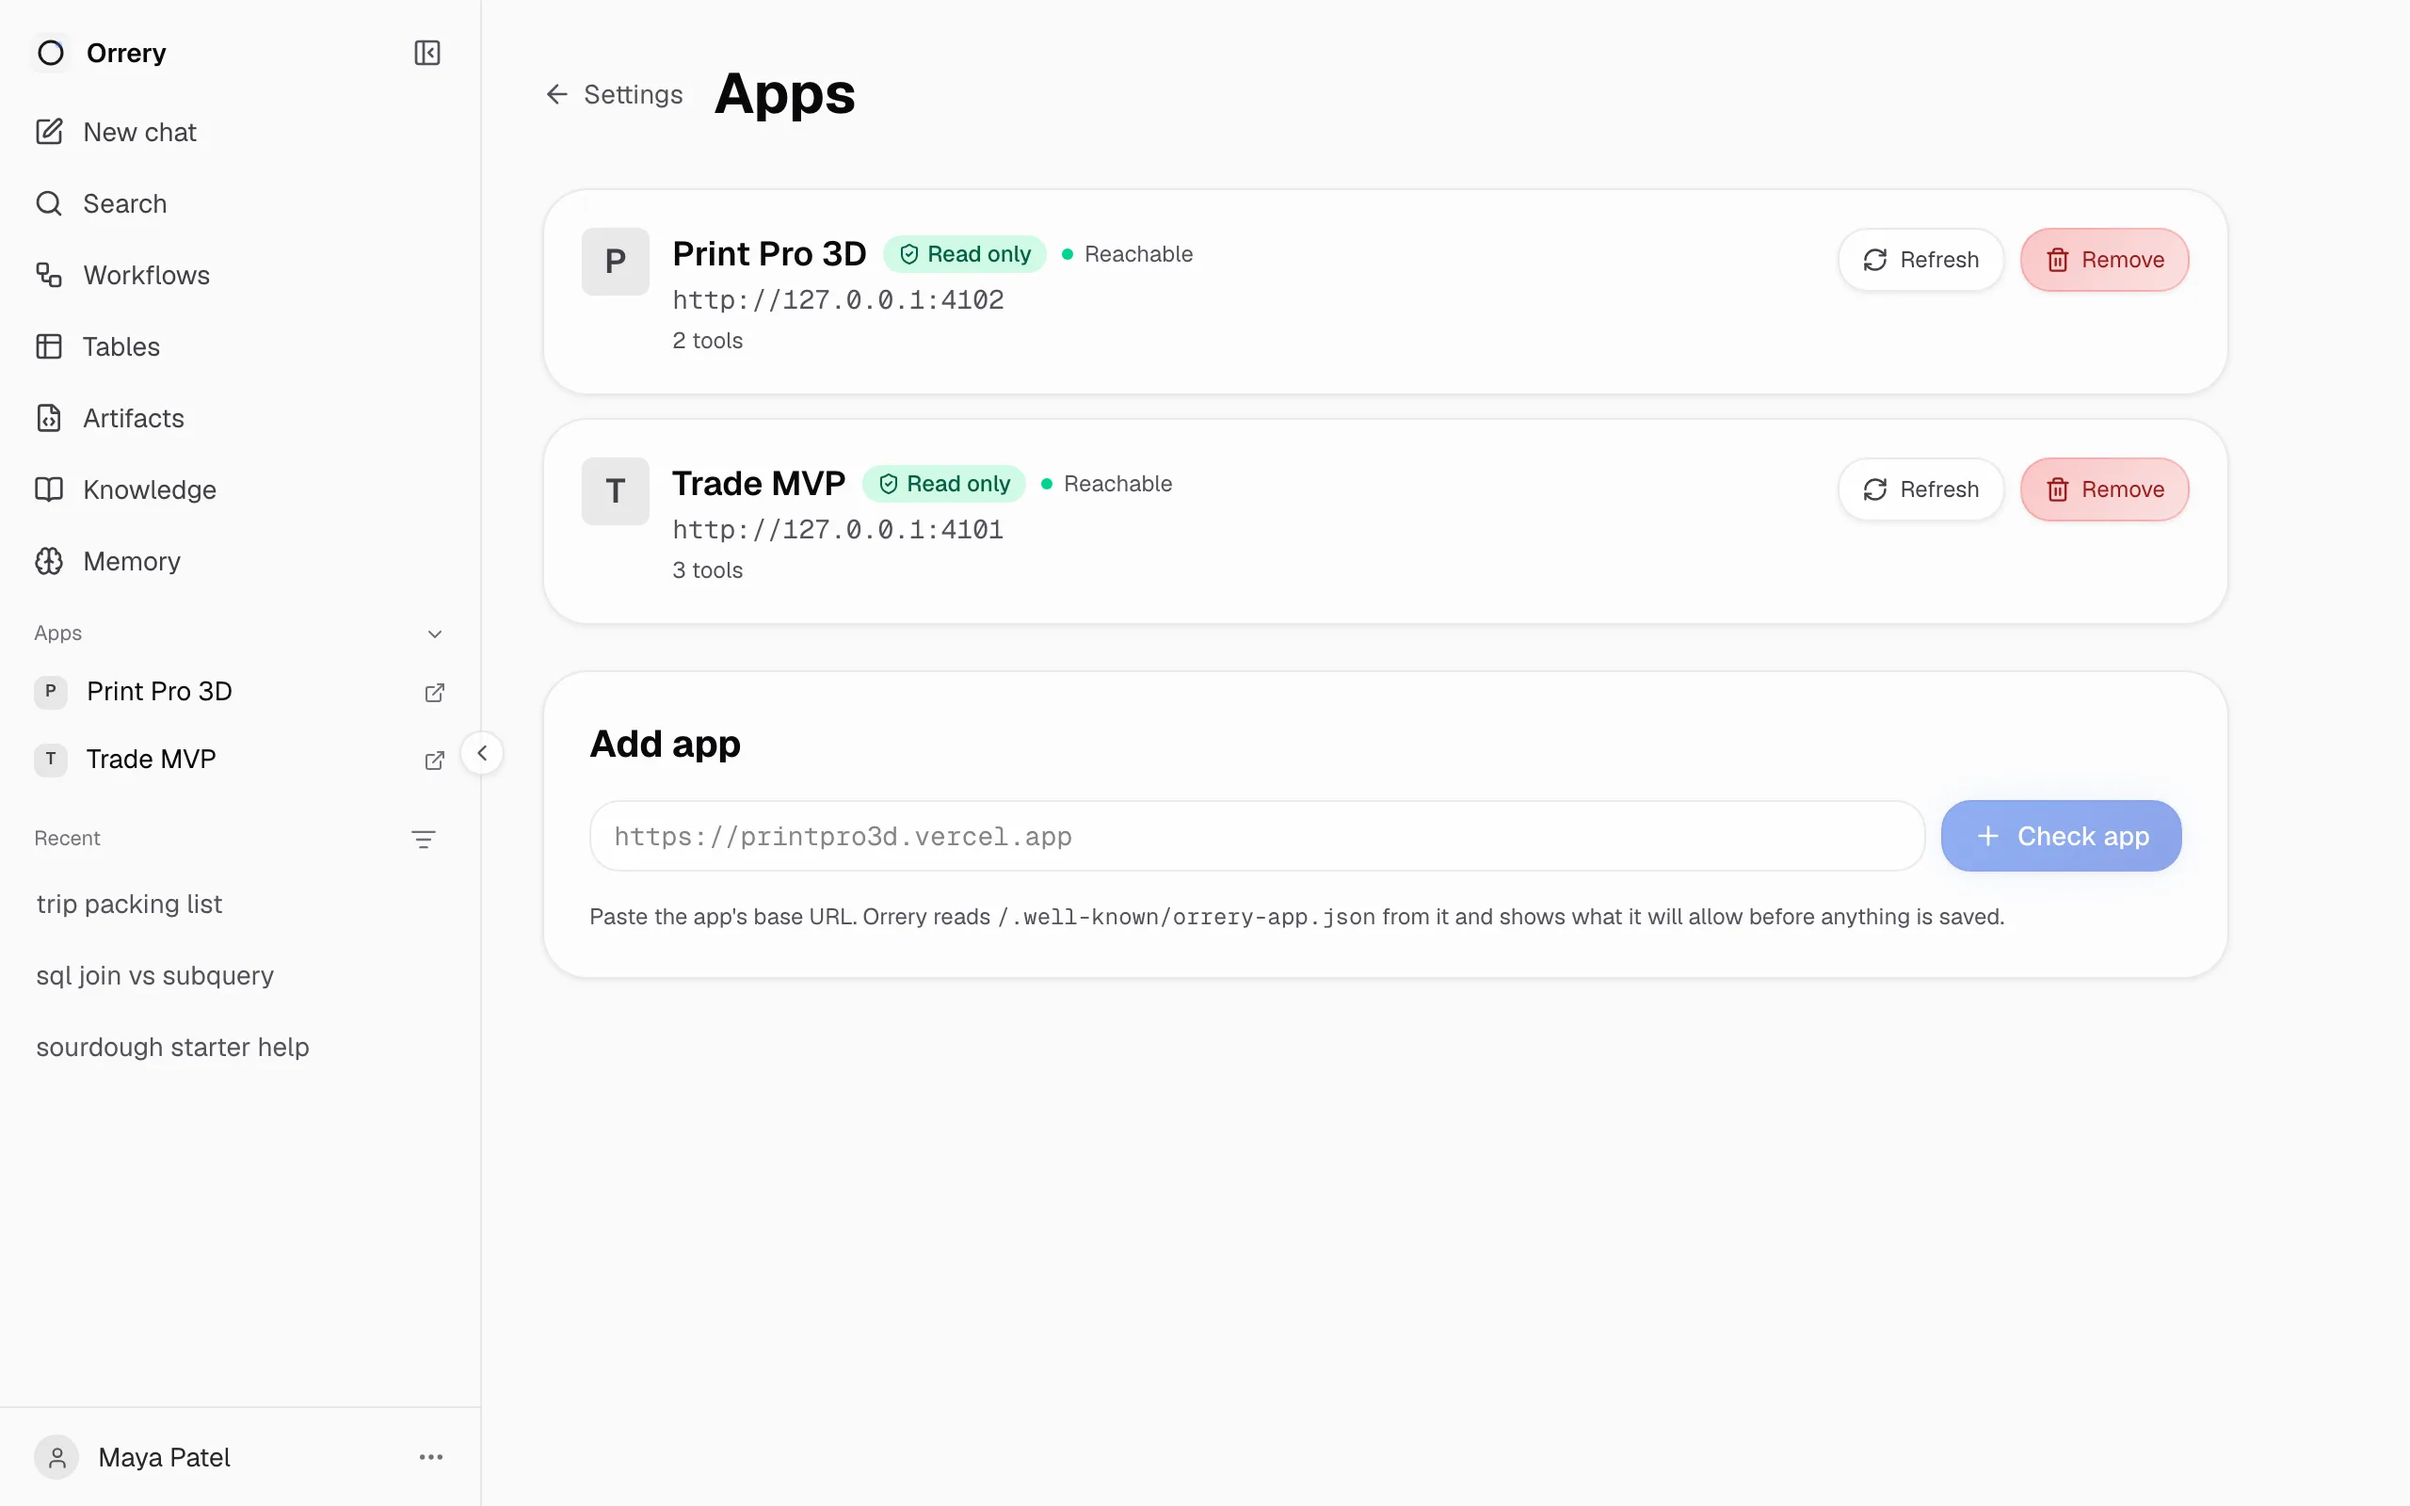
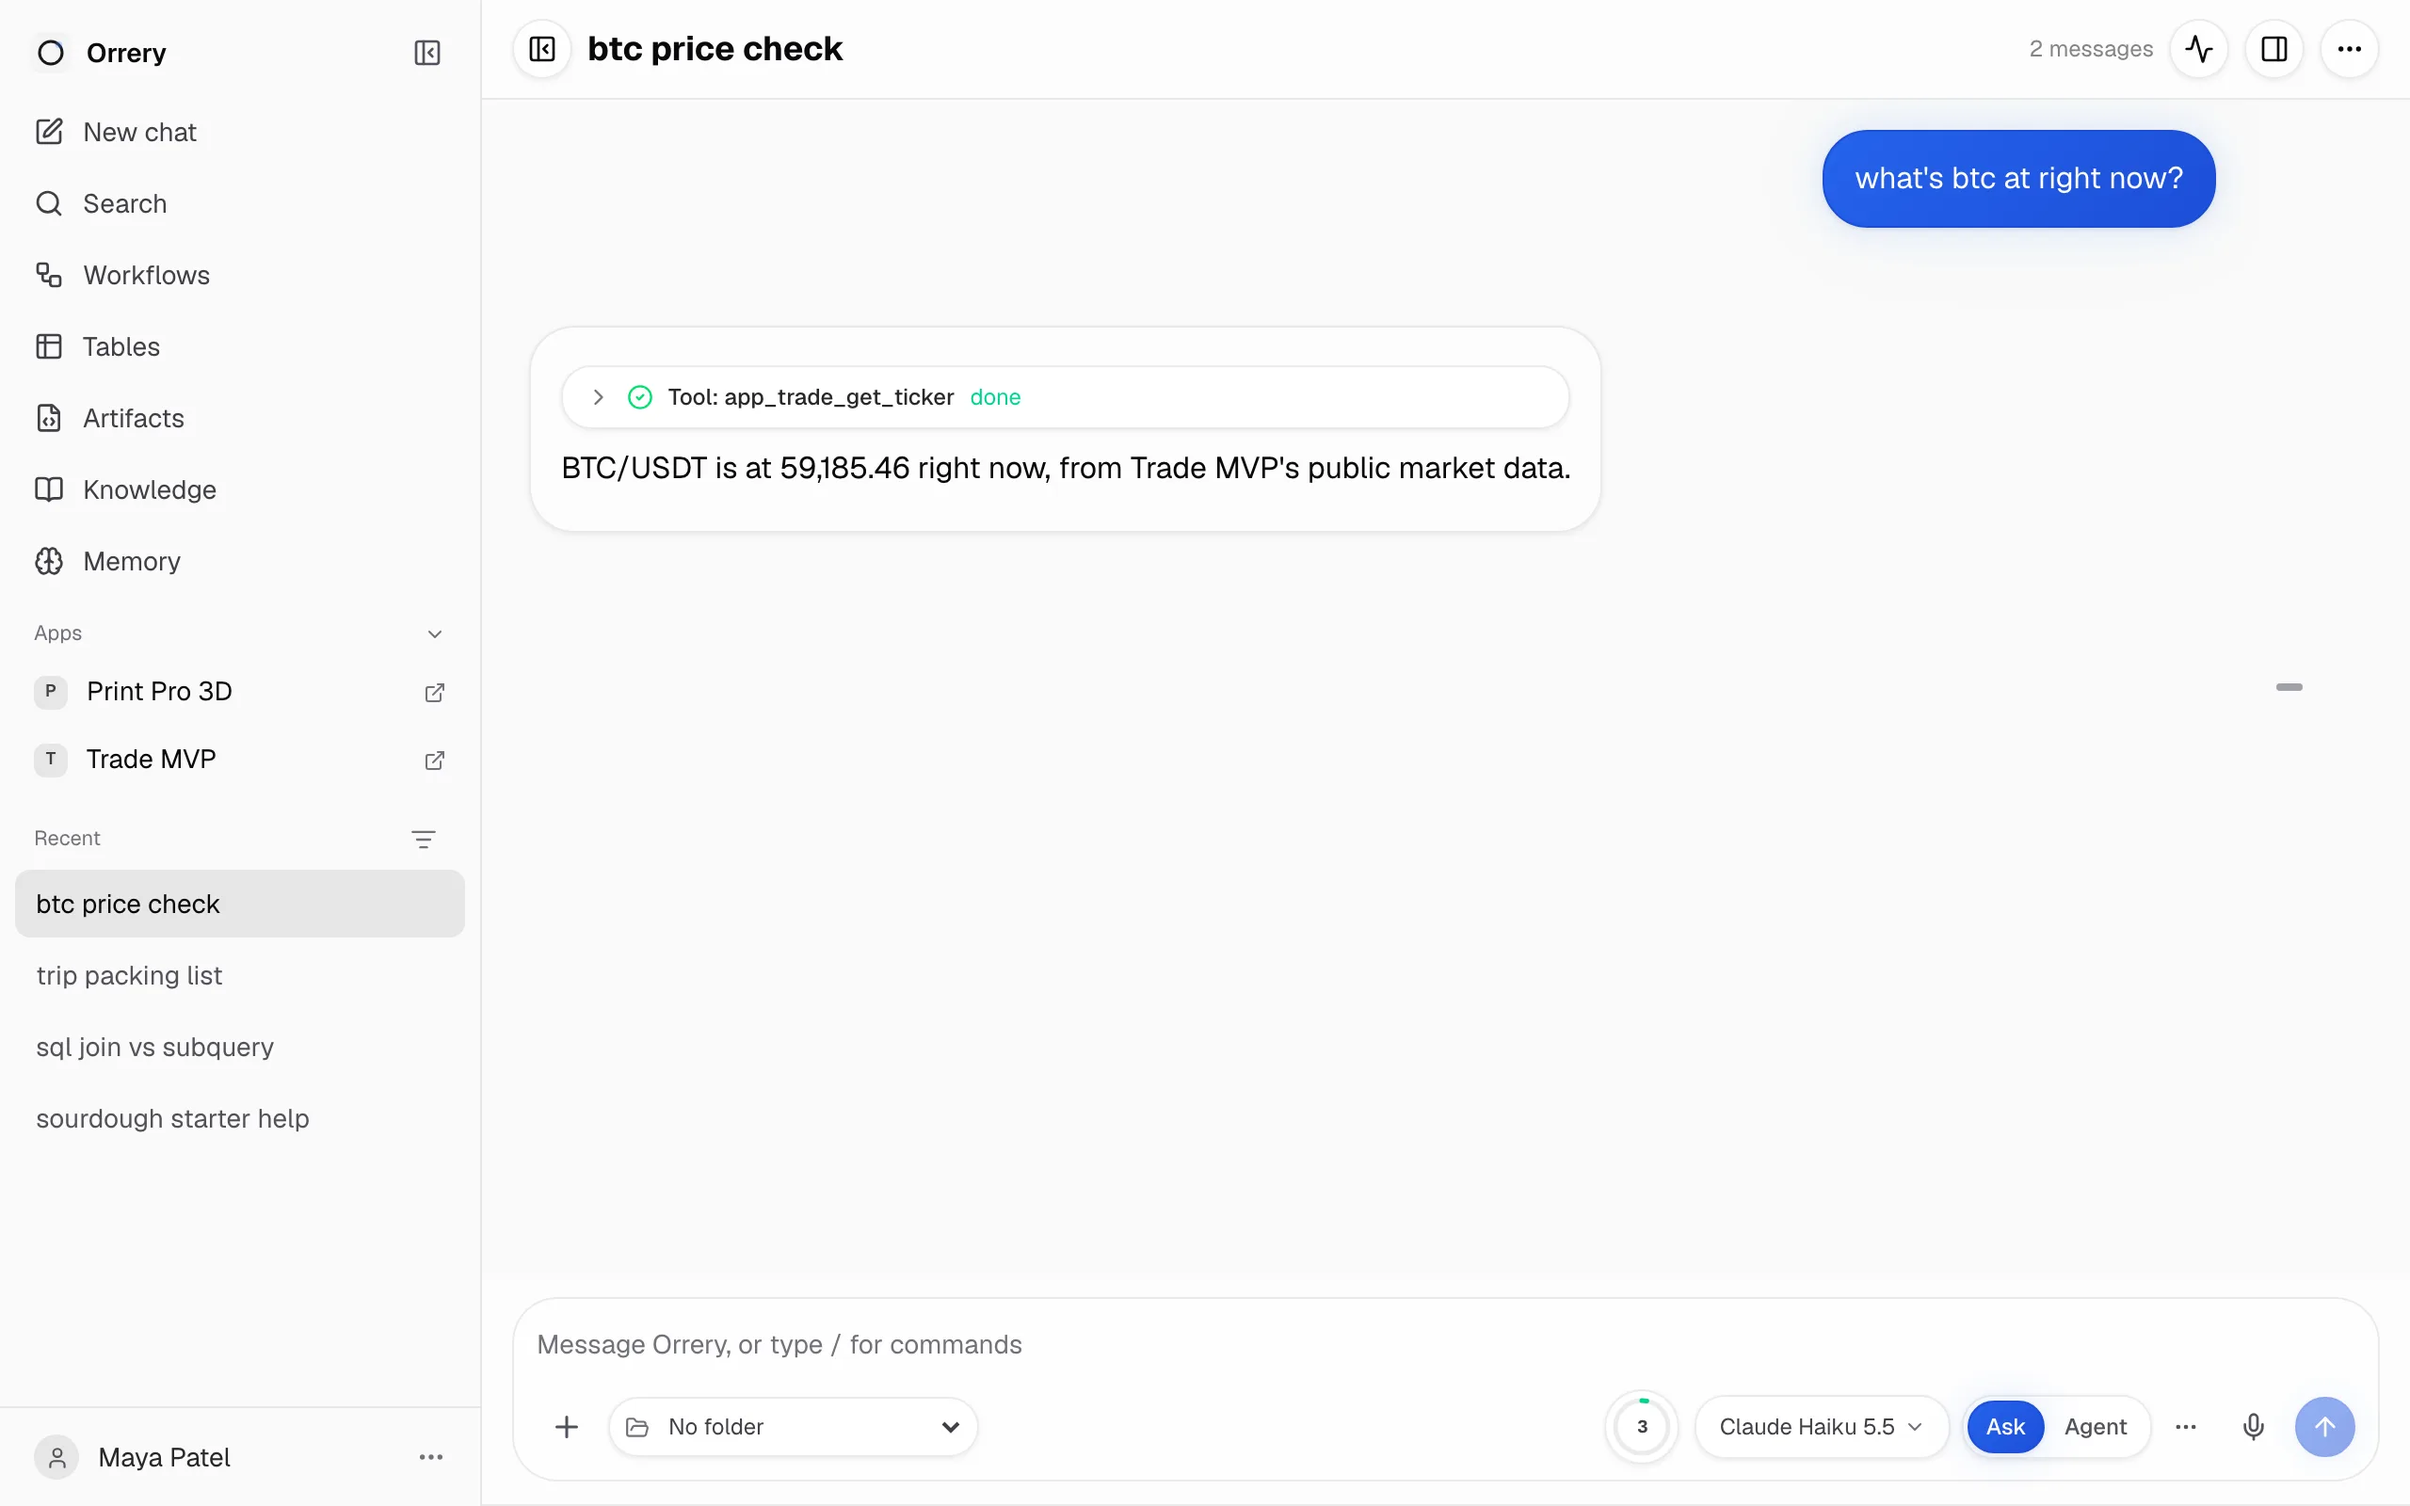
marketing: retake study (readable diagram) and apps (chat with connected apps, no app URLs shown); alt text matches

diff --git a/scripts/marketing-shots.spec.ts b/scripts/marketing-shots.spec.ts
@@ -224,7 +224,7 @@ test("study", async ({ page }) => {
   await earlierChats(request);
   const reply = [
     "Cells divide in a loop called the cell cycle. Most of it is preparation, and the actual split is short.",
-    "```mermaid\nflowchart LR\n  G1[G1: grow] --> S[S: copy DNA]\n  S --> G2[G2: check]\n  G2 --> M[Mitosis: split DNA]\n  M --> C[Cytokinesis: split cell]\n  C --> G1\n```",
+    "```mermaid\nflowchart LR\n  G1[Grow] --> S[Copy DNA]\n  S --> G2[Check]\n  G2 --> M[Split the DNA]\n  M --> C[Split the cell]\n  C --> G1\n```",
     "Each daughter cell ends up with the same DNA as the original, then starts the loop again.",
   ].join("\n\n");
   const id = await seedChat(page, request, "cell division", HAIKU, [{ user: "explain how cells divide, with a diagram", assistant: reply }]);
@@ -280,8 +280,14 @@ test("apps", async ({ page }) => {
   const request = page.request;
   await stubModels(page);
   await earlierChats(request);
+  // Real price or no shot, as in "visuals".
+  const res = await fetch("https://api.binance.com/api/v3/ticker/price?symbol=BTCUSDT");
+  if (!res.ok) throw new Error(`Binance ticker answered ${res.status}: not showing an invented price`);
+  const ticker = (await res.json()) as { symbol: string; price: string };
+  if (!(+ticker.price > 0)) throw new Error("Binance returned no price");
   // Two small upstream apps on localhost (a manifest plus a stateless MCP endpoint, as in e2e/apps-settings.spec.ts),
-  // registered through the real routes, so Settings > Apps shows what a real registration shows.
+  // registered through the real routes, so the sidebar lists what a real registration lists. The shot is the chat
+  // (no app address shows), not Settings > Apps, whose rows show the localhost URLs.
   const upstreams = [
     await startApp(4101, "trade", "Trade MVP", "Public market data", "Looking up prices and candles", [
       ["get_klines", "Candlestick data for a symbol"],
@@ -301,11 +307,21 @@ test("apps", async ({ page }) => {
       await page.getByTestId("app-review").getByRole("button", { name: "Approve and add" }).click();
       await page.getByTestId("app-secret-box").getByRole("button", { name: "I have saved it" }).click();
     }
-    await page.goto("/settings/apps");
-    await expect(page.getByTestId("app-row-trade")).toContainText("3 tools");
-    await expect(page.getByTestId("app-row-printpro3d")).toContainText("2 tools");
-    await page.waitForLoadState("networkidle");
-    await page.waitForTimeout(1000);
+    const price = (+ticker.price).toLocaleString("en-US", { minimumFractionDigits: 2, maximumFractionDigits: 2 });
+    const text = `BTC/USDT is at ${price} right now, from Trade MVP's public market data.`;
+    const call = {
+      type: "tool-app_trade_get_ticker",
+      toolCallId: "call-ticker",
+      state: "output-available",
+      input: { symbol: "BTCUSDT" },
+      output: JSON.stringify(ticker),
+    };
+    const id = await seedChat(page, request, "btc price check", HAIKU, [
+      { user: "what's btc at right now?", assistant: text, parts: [call, { type: "text", text }] },
+    ]);
+    await open(page, id);
+    await expect(page.getByTestId("sidebar-apps").getByText("Trade MVP")).toBeVisible();
+    await expect(page.getByText("Tool: app_trade_get_ticker")).toBeVisible();
     await shoot(page, "apps");
   } finally {
     for (const u of upstreams) {

diff --git a/src/lib/marketing/pages.ts b/src/lib/marketing/pages.ts
@@ -266,7 +266,7 @@ export const MARKETING_PAGES: readonly MarketingPage[] = [
       },
     ],
     related: ["/features/visuals", "/use-cases/research", "/features/local-models"],
-    screenshot: { src: "/marketing/study.webp", alt: "An Orrery chat where a student asks how cells divide and gets a flowchart of the cell cycle from G1 to cytokinesis", width: 1280, height: 800 },
+    screenshot: { src: "/marketing/study.webp", alt: "An Orrery chat where a student asks how cells divide and gets a flowchart of the cell cycle: Grow, Copy DNA, Check, Split the DNA, Split the cell, and back to Grow", width: 1280, height: 800 },
   },
   {
     section: "use-cases",
@@ -448,7 +448,7 @@ export const MARKETING_PAGES: readonly MarketingPage[] = [
       },
     ],
     related: ["/features/visuals", "/features/agents", "/features/workflows"],
-    screenshot: { src: "/marketing/apps.webp", alt: "Orrery's Settings > Apps page listing two connected apps, Trade MVP with 3 tools and Print Pro 3D with 2 tools, both marked Read only and Reachable, above the Add app form", width: 1280, height: 800 },
+    screenshot: { src: "/marketing/apps.webp", alt: "An Orrery chat where the answer to "what's btc at right now?" comes from the connected Trade MVP app's get_ticker tool, with Print Pro 3D and Trade MVP listed under Apps in the sidebar", width: 1280, height: 800 },
   },
 ];
 
